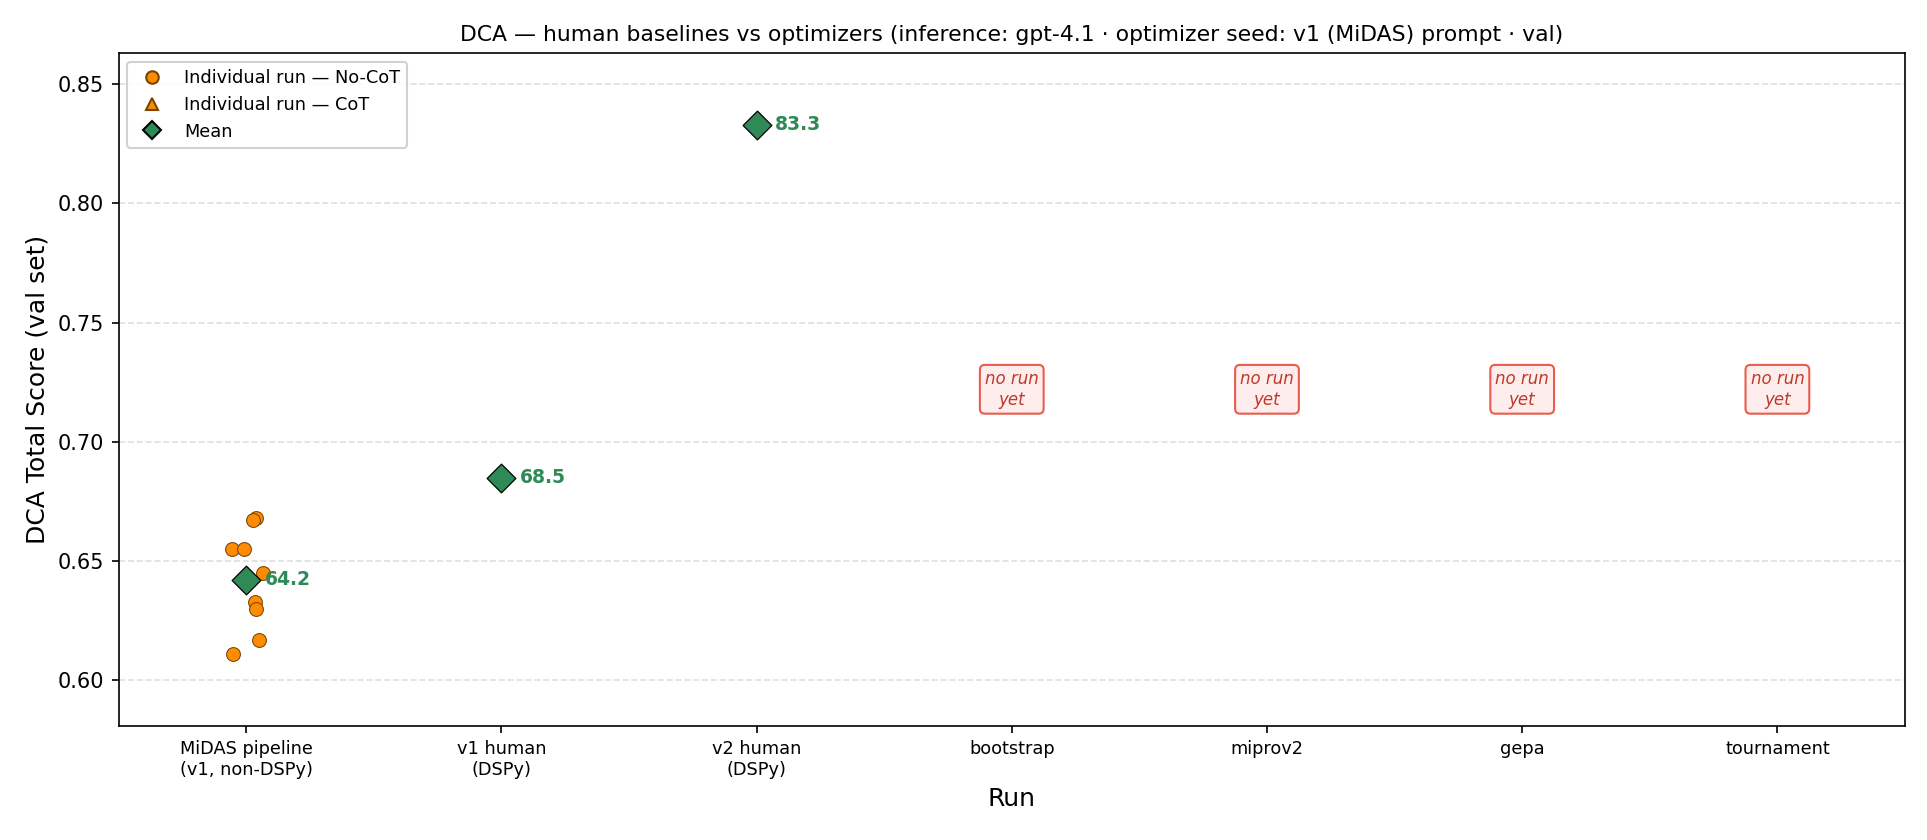
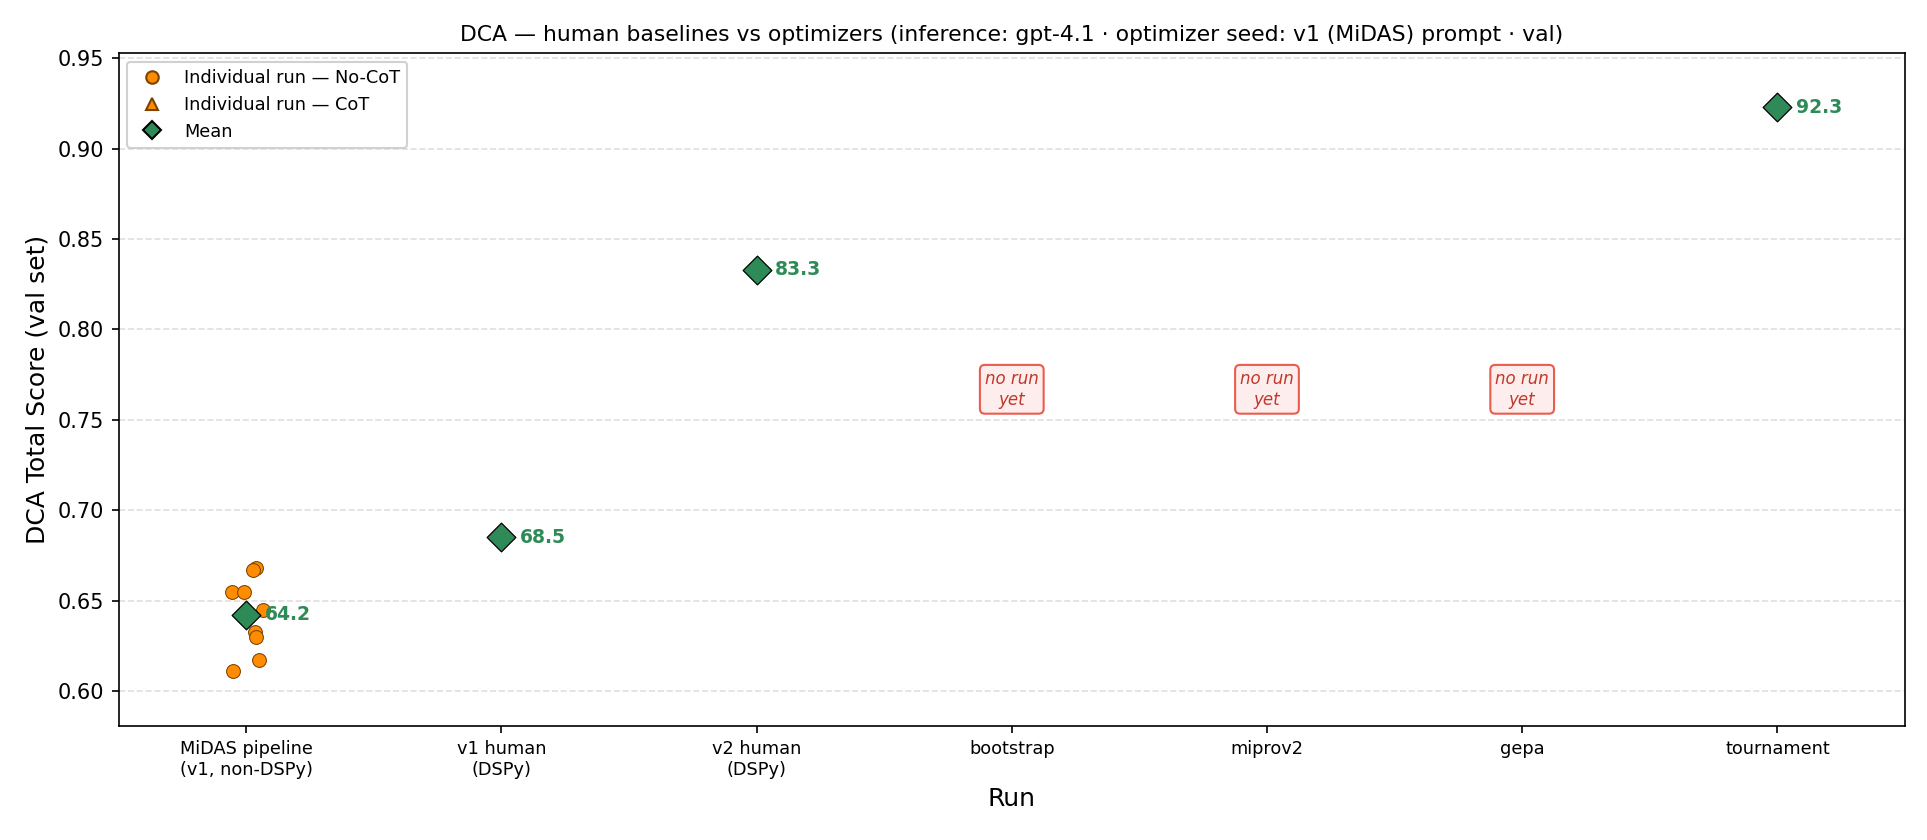
results: fix tournament seed tagging (v1-MiDAS run was mistagged CR-default)
- Source tournament points from combined_tournaments_single_run.xlsx (has run-IDs)
  instead of tournament_top2.xlsx (no run-IDs).
- Per deck slides 29/37, run 20260504234953 = v1-MiDAS seed -> now correctly appears
  in the gpt-4.1 v1-seed plot (tournament=92.3); all other tournaments = CR-default.
- Exclude 4a/4b 'Only seeds' experiments (not full tournaments).
- Each tournament point = the Best-Score candidate's val score for that run.
- Update results/plots/README.md (sourcing + seed-availability table).

diff --git a/results/plots/build_datapoints.py b/results/plots/build_datapoints.py
@@ -16,7 +16,13 @@ import pandas as pd
 
 XLSX = sys.argv[1] if len(sys.argv) > 1 else os.path.join("results", "dca_experiments.xlsx")
 OUT = os.path.join("results", "plots", "dca_datapoints.csv")
-TOUR = os.path.join("results", "excel", "tournament_top2.xlsx")
+TOUR = os.path.join("results", "excel", "combined_tournaments_single_run.xlsx")
+# Full tournaments (seed->bootstrap->miprov2->gepa). 4a/4b are "Only seeds"
+# experiments (not tournaments) and are excluded.
+FULL_TOURNAMENTS = {"1a", "1b", "2", "3", "5"}
+# Deck slides 29 & 37: this run used the v1-MiDAS prompt as the optimizer seed.
+# Every other tournament used the CR-default signature seed.
+TOUR_V1_RUNS = {"20260504234953"}
 
 _FLOAT = re.compile(r"(?<![\d.])(0?\.\d{2,4}|1\.0{1,3})(?![\d])")
 
@@ -123,20 +129,27 @@ def main():
                              seed_source=(seed_from(seed4, c15) or "cr-default"),
                              cot=cot_flag(cat, hp), scores=scores))
 
-    # Tournament best-score per instance (from the tournament excel)
+    # Tournament best-score per full-tournament run (from the combined excel, which
+    # carries run-IDs). Seed source per run-ID comes from the deck (slides 29/37):
+    # run 20260504234953 = v1-MiDAS seed; all other tournaments = CR-default.
     tour = 0
     if os.path.exists(TOUR):
         td = pd.read_excel(TOUR, sheet_name=0, dtype=str)
         cm = {str(c).strip().lower(): c for c in td.columns}
         for _, tr in td.iterrows():
-            if cm.get("selection") and str(tr[cm["selection"]]).strip().lower() != "best score":
+            tname = str(tr.get(cm.get("tournament"), "")).strip()
+            if tname not in FULL_TOURNAMENTS:
+                continue
+            if str(tr.get(cm.get("selection"), "")).strip().lower() != "best score":
                 continue
             sc = floats_in(tr.get(cm.get("total score")))
             if not sc:
                 continue
-            rows.append(dict(src=f"tournament_top2", optimizer="tournament", prompt_version="",
+            run = str(tr.get(cm.get("reference (prompt + log)"), "")).strip()
+            rows.append(dict(src=f"tour:{run}", optimizer="tournament", prompt_version="",
                              prompt_type="", model=norm_model(tr.get(cm.get("inference model"))),
-                             seed_source="cr-default", cot="nocot", scores=sc[:1]))
+                             seed_source=("v1" if run in TOUR_V1_RUNS else "cr-default"),
+                             cot="nocot", scores=sc[:1]))
             tour += 1
 
     os.makedirs(os.path.dirname(OUT), exist_ok=True)

diff --git a/results/plots/README.md b/results/plots/README.md
@@ -5,11 +5,11 @@ DCA total score with **individual run points + the mean marker only** (no box, n
 ## Pipeline
 
 ```bash
-python results/plots/build_datapoints.py    # dca_experiments.xlsx + tournament_top2.xlsx -> dca_datapoints.csv
+python results/plots/build_datapoints.py    # xlsx + tournament excel -> dca_datapoints.csv
 python results/plots/plot_dca_scatter.py    # dca_datapoints.csv -> figures/*.png
 ```
 
-- **`dca_datapoints.csv`** — one row per individual run: `source_row, optimizer, prompt_version, prompt_type, model, seed_source, cot, score`. `source_row` traces each point back to the spreadsheet, so every point is auditable.
+- **`dca_datapoints.csv`** — one row per individual run: `source_row, optimizer, prompt_version, prompt_type, model, seed_source, cot, score`. `source_row` traces each point back to its source (spreadsheet row or `tour:<run-id>`), so every point is auditable.
 
 ## The 6 figures (`figures/`)
 
@@ -32,15 +32,21 @@ MiDAS pipeline (v1, non-DSPy) | v1 human (DSPy) | v2 human (DSPy) | bootstrap | 
 
 ## How the columns are sourced
 
-- **MiDAS pipeline (v1, non-DSPy)** = val rows labelled `"using midas like image passing prompt"` (the human prompt run through the *original* MiDAS pipeline, no DSPy).
-- **v1 / v2 human (DSPy)** = rows labelled `"using DSPY style signature"` (same human prompt, but reorganised into a DSPy signature — this changes performance). Where a model has no explicit DSPy-labelled row (gpt-4.1), the single unlabelled human run is used.
-- **Optimizer seed source** from col "Type of initial seed prompt" (`signature`→CR-default, `v1-prompt`, `v2-prompt`); GEPA carries its seed in the notes column (`v1`/`v2`).
-- Optimizer scores are trusted from col-7 only when cls + chg are also present (guards mis-aligned rows).
+- **MiDAS pipeline (v1, non-DSPy)** = val rows labelled `"using midas like image passing prompt"` (human prompt run through the *original* MiDAS pipeline, no DSPy).
+- **v1 / v2 human (DSPy)** = rows labelled `"using DSPY style signature"` (same human prompt reorganised into a DSPy signature — changes performance). Where a model has no explicit DSPy-labelled row (gpt-4.1), the single unlabelled human run is used.
+- **Optimizer (bootstrap / miprov2 / gepa)** — from `dca_experiments.xlsx`; seed source from the "Type of initial seed prompt" col (`signature`→CR-default, `v1-prompt`, `v2-prompt`), GEPA carries its seed in the notes col (`v1`/`v2`). Col-7 is trusted as the total only when cls + chg are present.
+- **Tournament** — best-score per full tournament run (`1a/1b/2/3/5`) from `combined_tournaments_single_run.xlsx`, which carries the run-IDs. Seed source per run-ID is taken from the **deck (slides 29 & 37)**: run `20260504234953` used the **v1-MiDAS seed**; all other tournaments used CR-default. The "Only seeds" experiments (`4a/4b`) are seed-only, not tournaments, and are excluded.
 
-## Data-availability caveats
+## Tournament / seed data availability
 
-- **v1 / v2 seed** optimizer data exists mainly for **MIPROv2** (+ one GEPA point each). **Bootstrap** and **tournament** have no v1/v2-seed runs → those columns show "no run yet".
-- Nearly all val inference is temp 0.1, so a temperature slice isn't supported by this data.
+| | gpt-4.1-mini | gpt-4.1 |
+|---|---|---|
+| tournament, CR-default | 5 runs | 4 runs |
+| tournament, v1-seed | none | **1 run (0.9228, run 20260504234953)** |
+| tournament, v2-seed | none | none |
+| bootstrap / gepa / miprov2, v1 or v2 seed | miprov2 (v1: 18, v2: 28), gepa (v1/v2: 1 each) | none |
+
+Everything else shows "no run yet". Nearly all val inference is temp 0.1, so a temperature slice isn't supported by this data.
 
 ## Adding a plot
 
